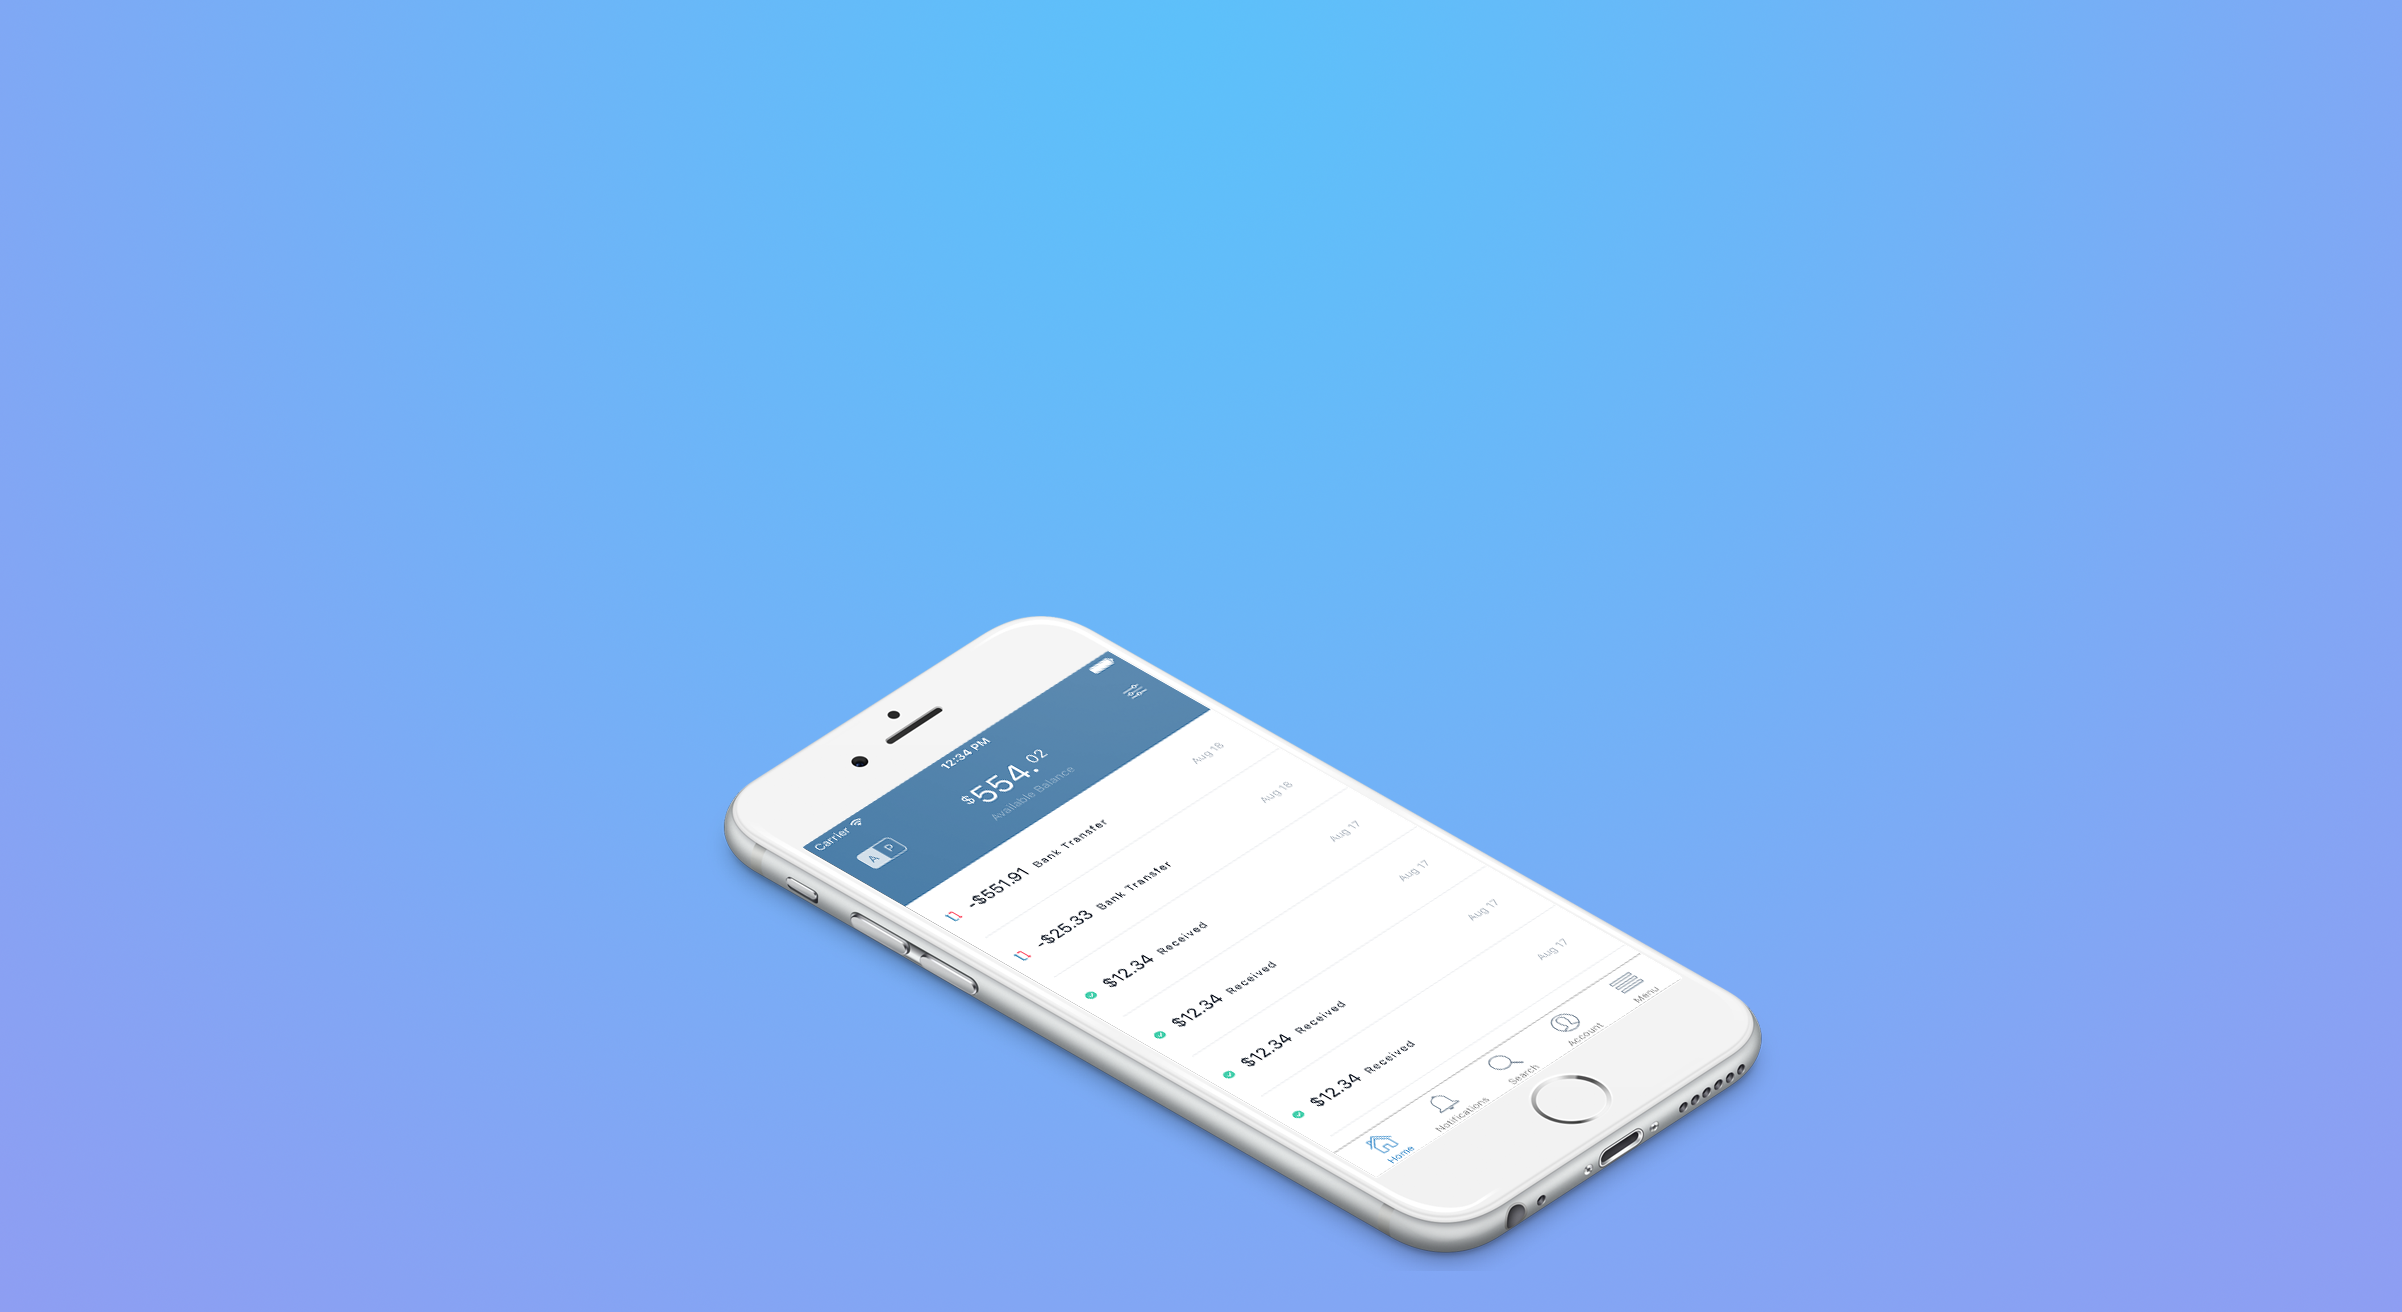
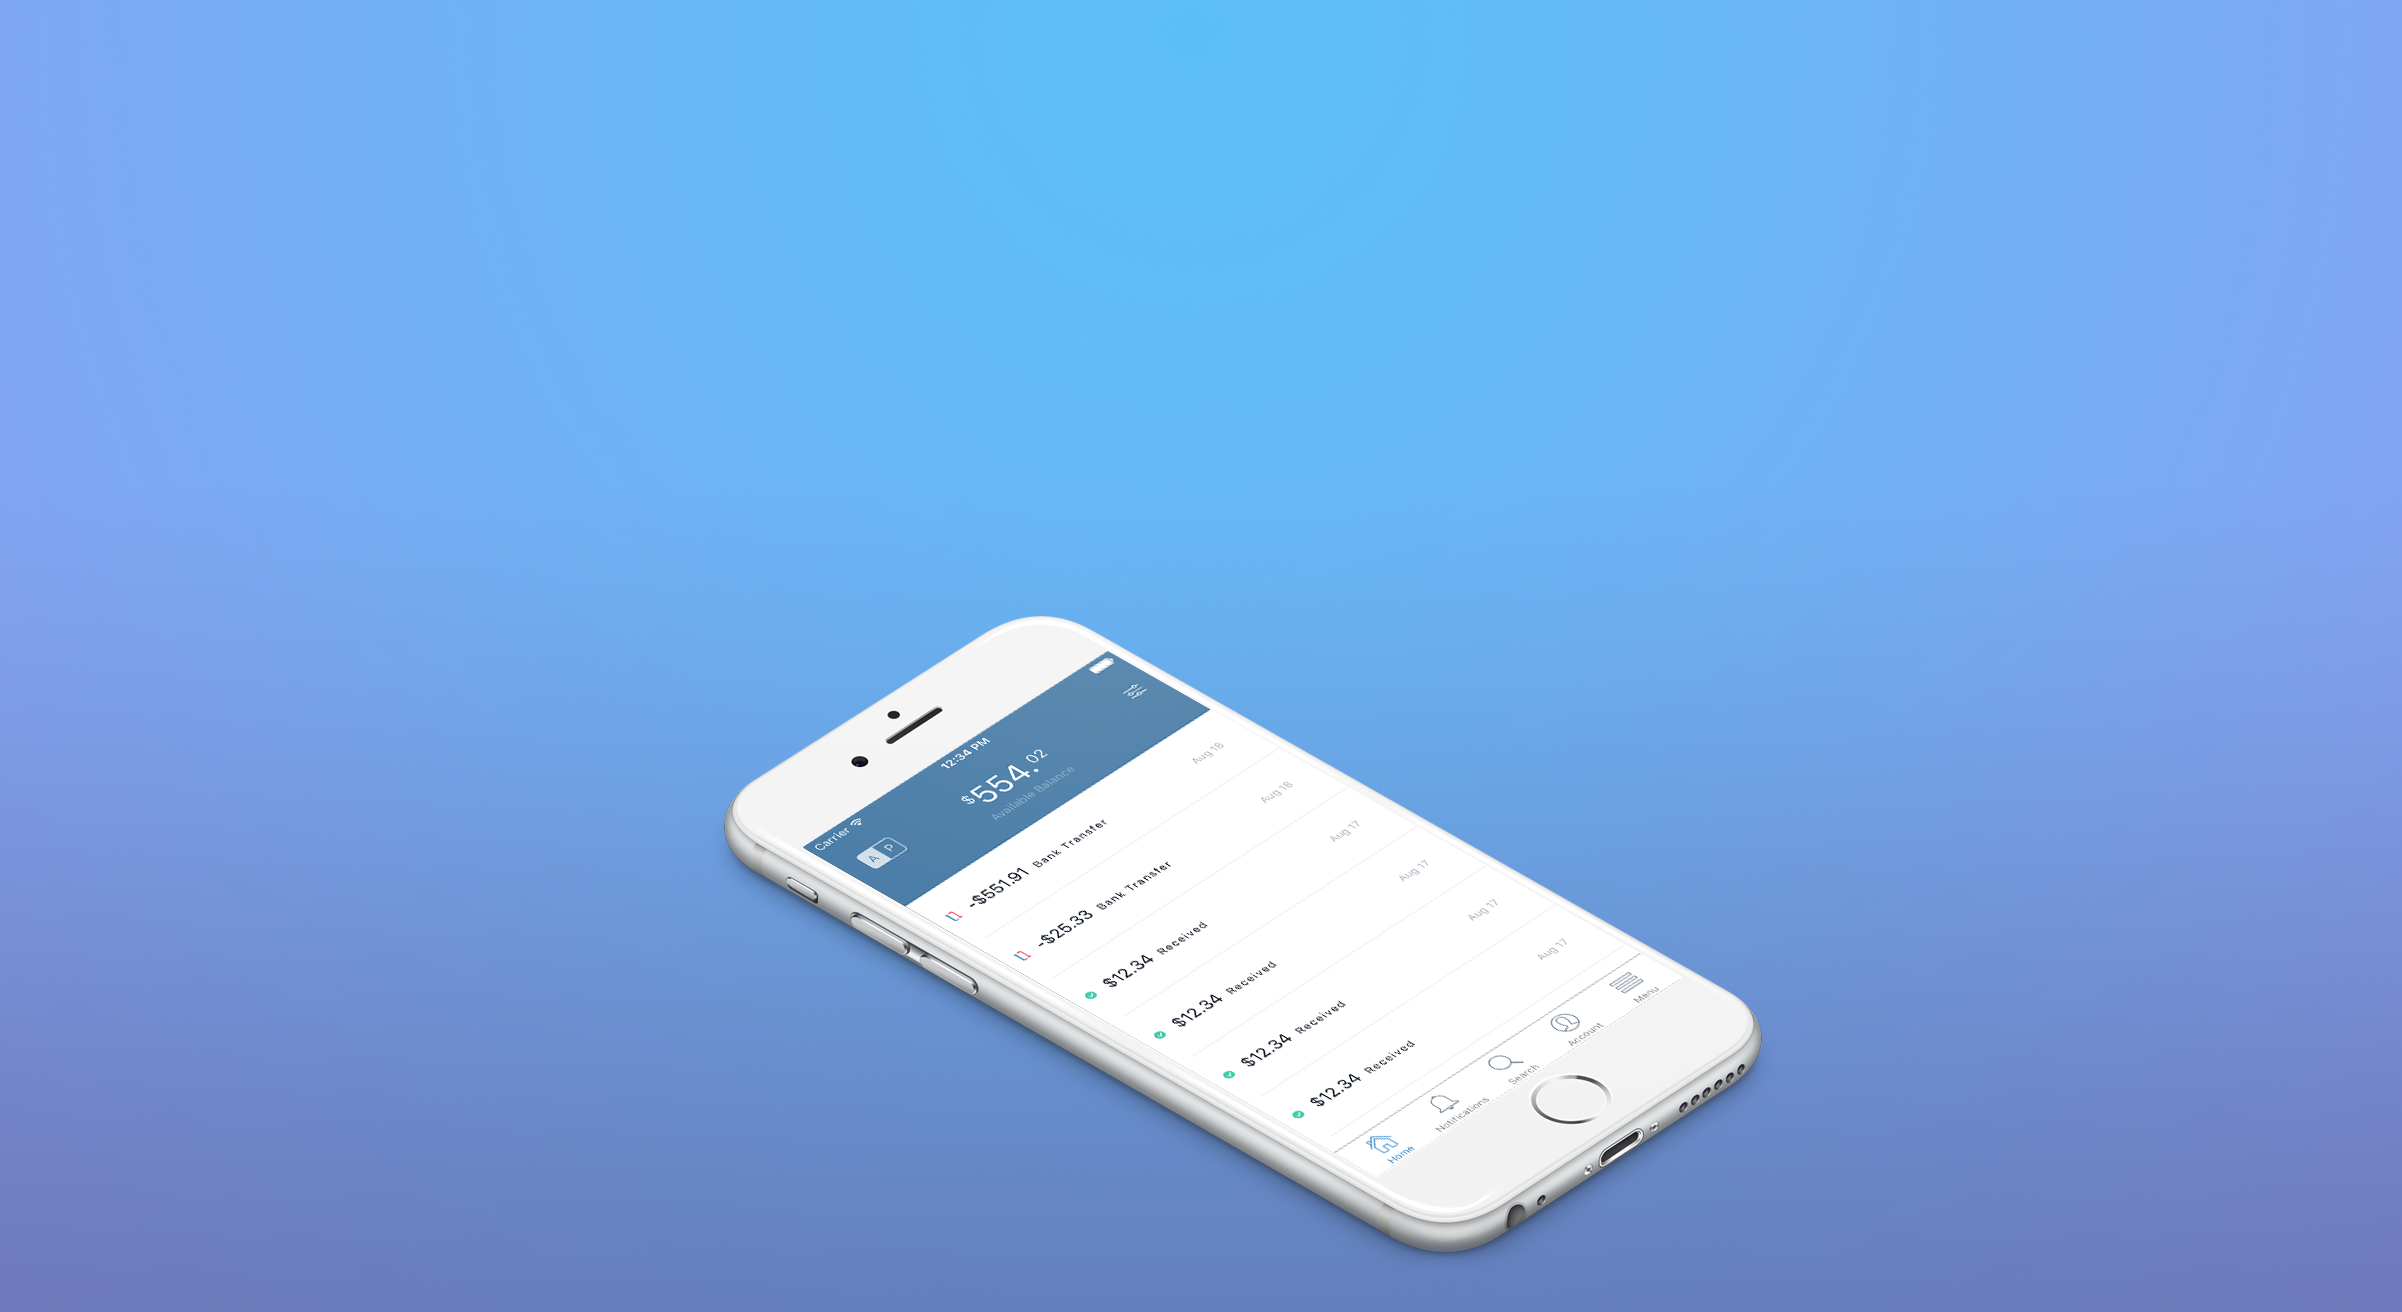
update parallax

Changed region(s): [[0.0, 0.6562, 1.0, 1.0]]

diff --git a/www/web/assets/css/override.css b/www/web/assets/css/override.css
@@ -981,8 +981,58 @@ a:focus, a:active {
 .landing-page2 .container{
   max-width: 1170px;
 }
-
- .header-text{
+html {
+  height: 100%;
+  overflow: hidden;
+}
+header {
+  box-sizing: border-box;
+  min-height: 40vw;
+  padding: 30vw 0 5vw;
+  position: relative;
+  -webkit-transform-style: inherit;
+  transform-style: inherit;
+  width: 100vw;
+}
+header, header:before {
+  background: 50% 50% / cover;
+}
+header::before {
+  bottom: 0;
+  content: "";
+  left: 0;
+  position: absolute;
+  right: 0;
+  top: 0;
+  display: block;
+  background-image: url(../../assets/img/backgrounds/header.png);
+  background-size: cover;
+  -webkit-transform-origin: center center 0;
+  -webkit-transform: translateZ(-1px) scale(2);
+  transform-origin: center center 0;
+  transform: translateZ(-1px) scale(2);
+  z-index: -1;
+  min-height: 100vh;
+}
+.header-responsive {
+  margin-top:-300px;
+}
+@media (max-width:1100px){
+  .header-responsive {
+    margin-top:-200px;
+  }
+}
+@media (max-width:976px){
+  .header-responsive {
+    margin-top:-150px;
+  }
+}
+@media (max-width:768px){
+  .header-responsive {
+    margin-top:0px;
+  }
+}
+.header-text{
       text-transform: uppercase;
       font-weight: 200;
       color: #7b8999;
@@ -1100,6 +1150,7 @@ filter: progid:DXImageTransform.Microsoft.gradient( startColorstr='#de8e0009', e
 }
 .landing-page .parallax .parallax-background{
   position: relative;
+  background: fixed;
   z-index: 1;
   width: 100%;
   height: 100%;
@@ -1108,6 +1159,7 @@ filter: progid:DXImageTransform.Microsoft.gradient( startColorstr='#de8e0009', e
   width: 100%;
   height: auto;
   position: relative;
+  background: fixed;
 }
 .landing-page .parallax .parallax-image{
   width: 100%;
@@ -1115,6 +1167,7 @@ filter: progid:DXImageTransform.Microsoft.gradient( startColorstr='#de8e0009', e
   margin-top: 145px;
   float: right;
   text-align: center;
+  background: fixed;
 }
 
 .landing-page .parallax .parallax-image img {
@@ -2800,6 +2853,11 @@ a:hover {
 
 .section-three {
   height:900px;
+}
+@media (max-width: 768px) {
+  .section-three {
+    height:500px;
+  }
 }
 .section-three h2.push-down {
   margin-top: 50px;
